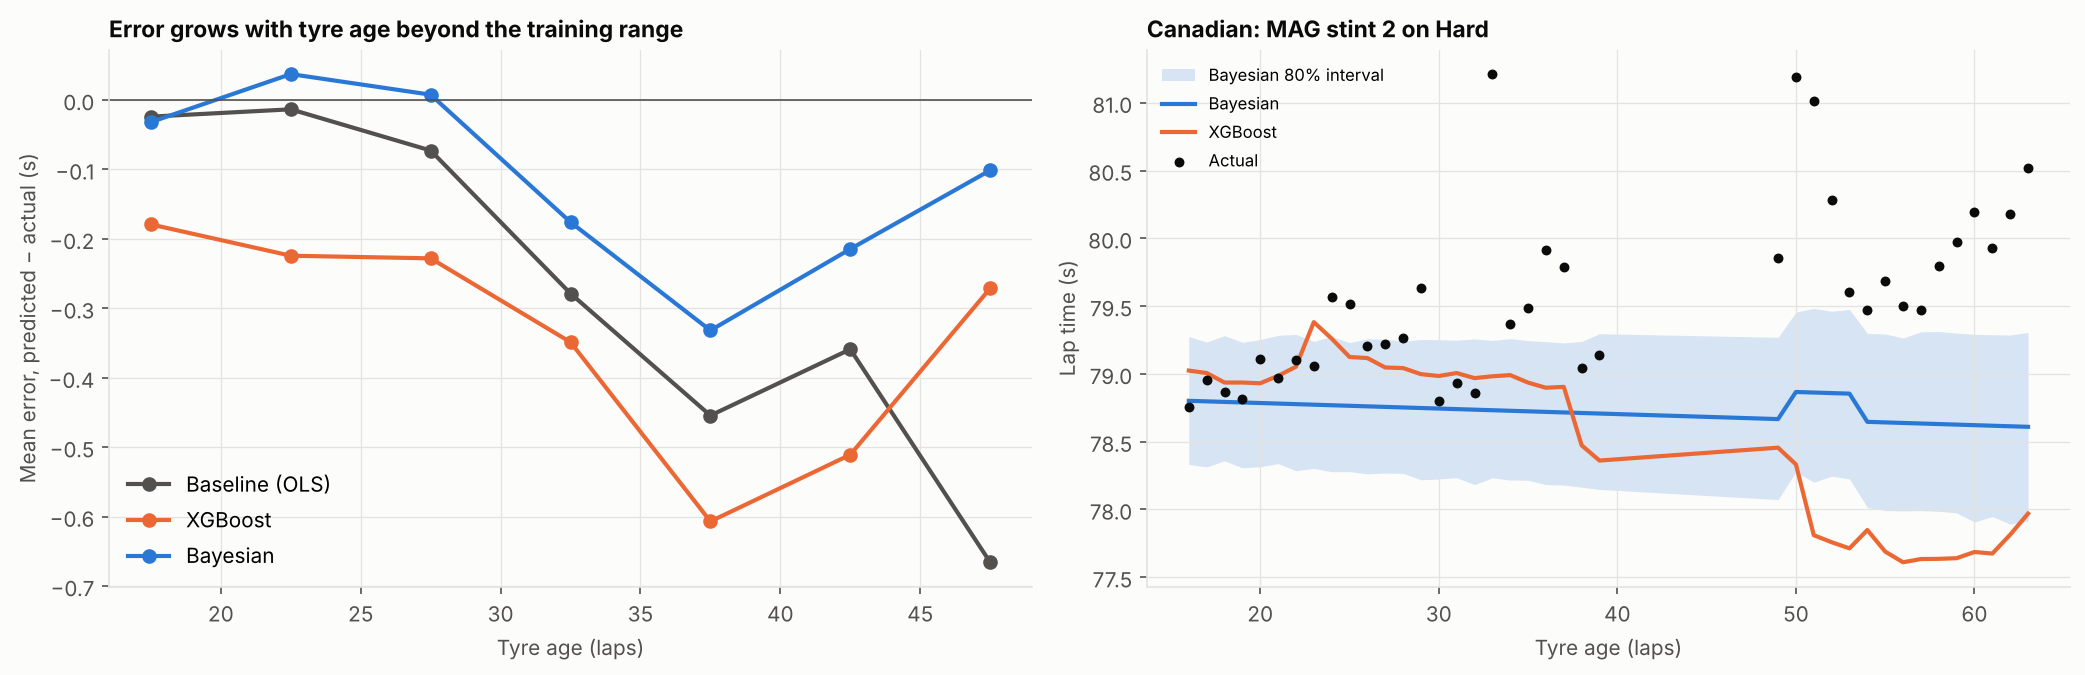
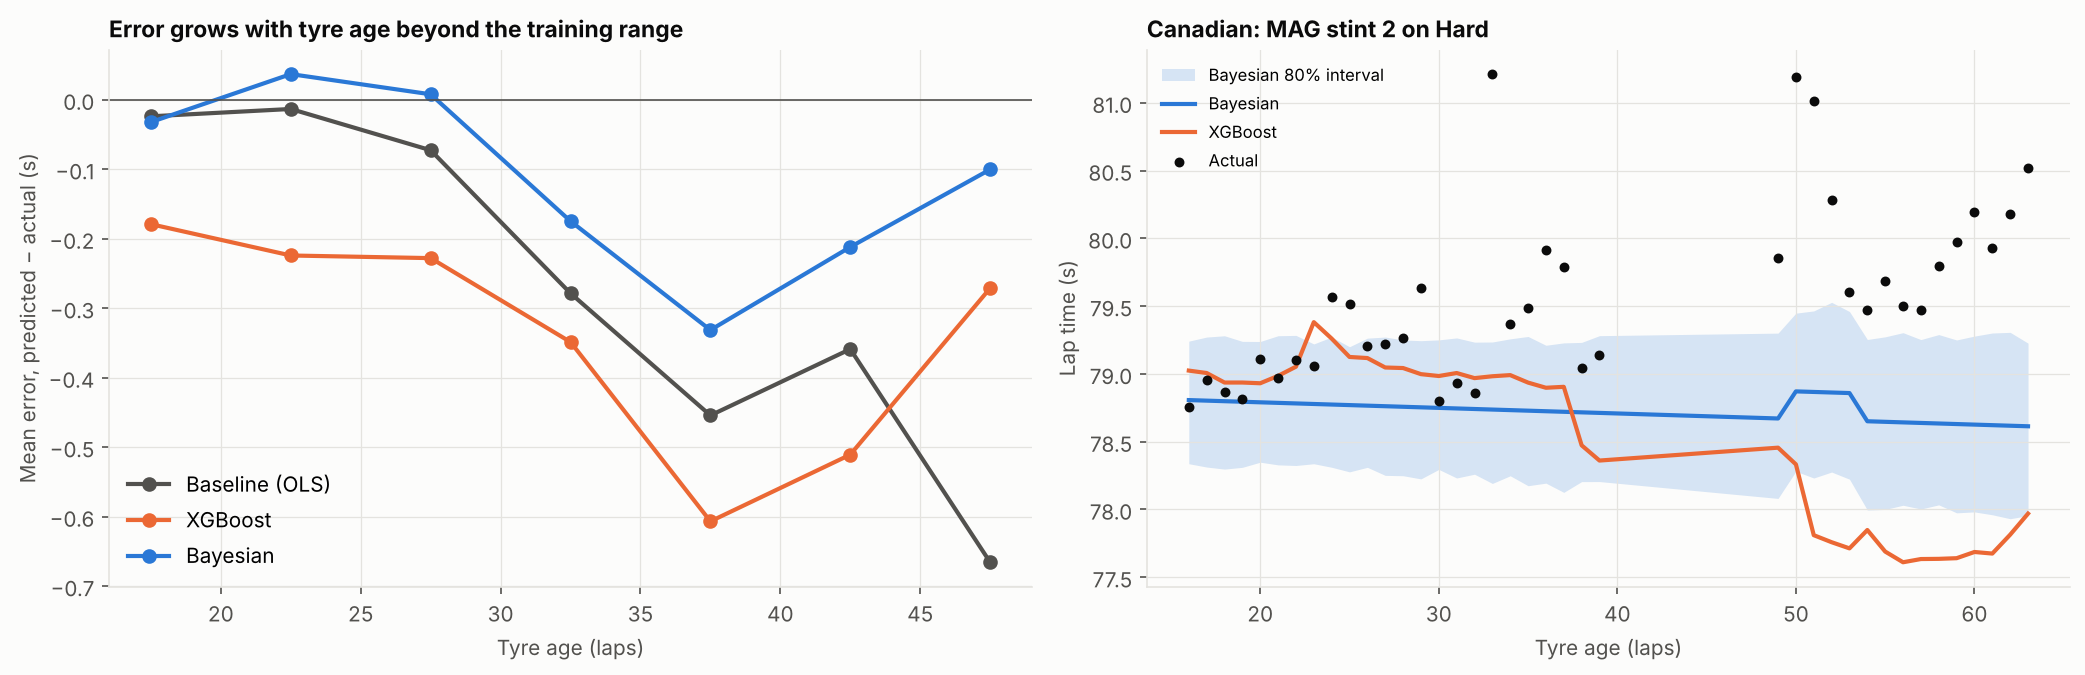
figure_data: lap-model tables always use the committed thinned fits, so a fresh clone's --export reproduces them exactly
Claude-Session: https://claude.ai/code/session_01CBis2eJHWZPz9BwpzoxWK9

diff --git a/src/f1strat/figure_data.py b/src/f1strat/figure_data.py
@@ -9,7 +9,9 @@ Two halves:
 - **Extract** (:data:`EXTRACTORS`, ``pitwall figures --export``): build each
   table from the heavy sources (case-study result JSON, processed laps, the
   committed thinned fits, the backtest tables) and write it. Run after any
-  step that changes results.
+  step that changes results. Tables from the lap model always use the
+  committed thinned fits (:data:`THIN_ONLY`), even where a full posterior is
+  saved locally, so a fresh clone reproduces them exactly.
 - **Load**: read a table back, and for figures whose plot function takes a
   result dict, rebuild exactly the fields it uses (:func:`points_main`,
   :func:`hindsight_dicts`, ...). Floats are written at full precision, so the
@@ -381,6 +383,9 @@ def backtest_plot_tables() -> dict[str, pd.DataFrame]:
 
 # --- Notebook figures (EDA and the lap model) -----------------------------------------
 
+#: The lap-model tables are built from the committed thinned fits only.
+THIN_ONLY: bool = True
+
 
 def clean_laps_table() -> pd.DataFrame:
     """Every clean 2022 lap: round, event, compound, tyre age, lap time."""
@@ -439,10 +444,10 @@ def deg_curves_table() -> pd.DataFrame:
     """Tyre effect per compound vs a new medium (field-average car, 80% band)."""
     from f1strat.clean import clean_laps
     from f1strat.data import load_season
-    from f1strat.deg_model import FULL_FIT_PATH, deg_curve, load_fit_or_thin, prepare
+    from f1strat.deg_model import FULL_FIT_PATH, deg_curve, load_fit, prepare, thin_path
 
     laps = prepare(clean_laps(load_season(2022)))
-    full = load_fit_or_thin(FULL_FIT_PATH)
+    full = load_fit(thin_path(FULL_FIT_PATH))
     out = []
     for rnd, name in DEG_CURVE_RACES:
         rl = laps[laps["RoundNumber"] == rnd]
@@ -464,18 +469,19 @@ def long_tyre_tables() -> dict[str, pd.DataFrame]:
         SPLITS,
         fit_baseline,
         fit_xgboost,
-        load_fit_or_thin,
+        load_fit,
         predict,
         predict_baseline,
         predict_xgboost,
         prepare,
         split_fit_path,
+        thin_path,
     )
 
     laps = prepare(clean_laps(load_season(2022)))
     train, test = SPLITS["long_tyre"](laps)
     xgb = predict_xgboost(fit_xgboost(train), test)
-    bayes = predict(load_fit_or_thin(split_fit_path("long_tyre")), test)
+    bayes = predict(load_fit(thin_path(split_fit_path("long_tyre"))), test)
     base = predict_baseline(fit_baseline(train), test)
     age_bin = pd.cut(test["TyreLife"], np.arange(15, 51, 5))
     err = (
@@ -516,13 +522,13 @@ def leclerc_hungary_hard_table() -> pd.DataFrame:
     """Leclerc's Hungary hard stint (laps 41–53): actual laps and the full fit."""
     from f1strat.clean import clean_laps
     from f1strat.data import load_season
-    from f1strat.deg_model import FULL_FIT_PATH, load_fit_or_thin, predict, prepare
+    from f1strat.deg_model import FULL_FIT_PATH, load_fit, predict, prepare, thin_path
 
     laps = prepare(clean_laps(load_season(2022)))
     lec = laps[
         (laps["RoundNumber"] == 13) & (laps["Driver"] == "LEC") & laps["race_lap"].between(41, 53)
     ]
-    pred = predict(load_fit_or_thin(FULL_FIT_PATH), lec)
+    pred = predict(load_fit(thin_path(FULL_FIT_PATH)), lec)
     return pd.DataFrame(
         {
             "race_lap": lec["race_lap"].to_numpy(),
